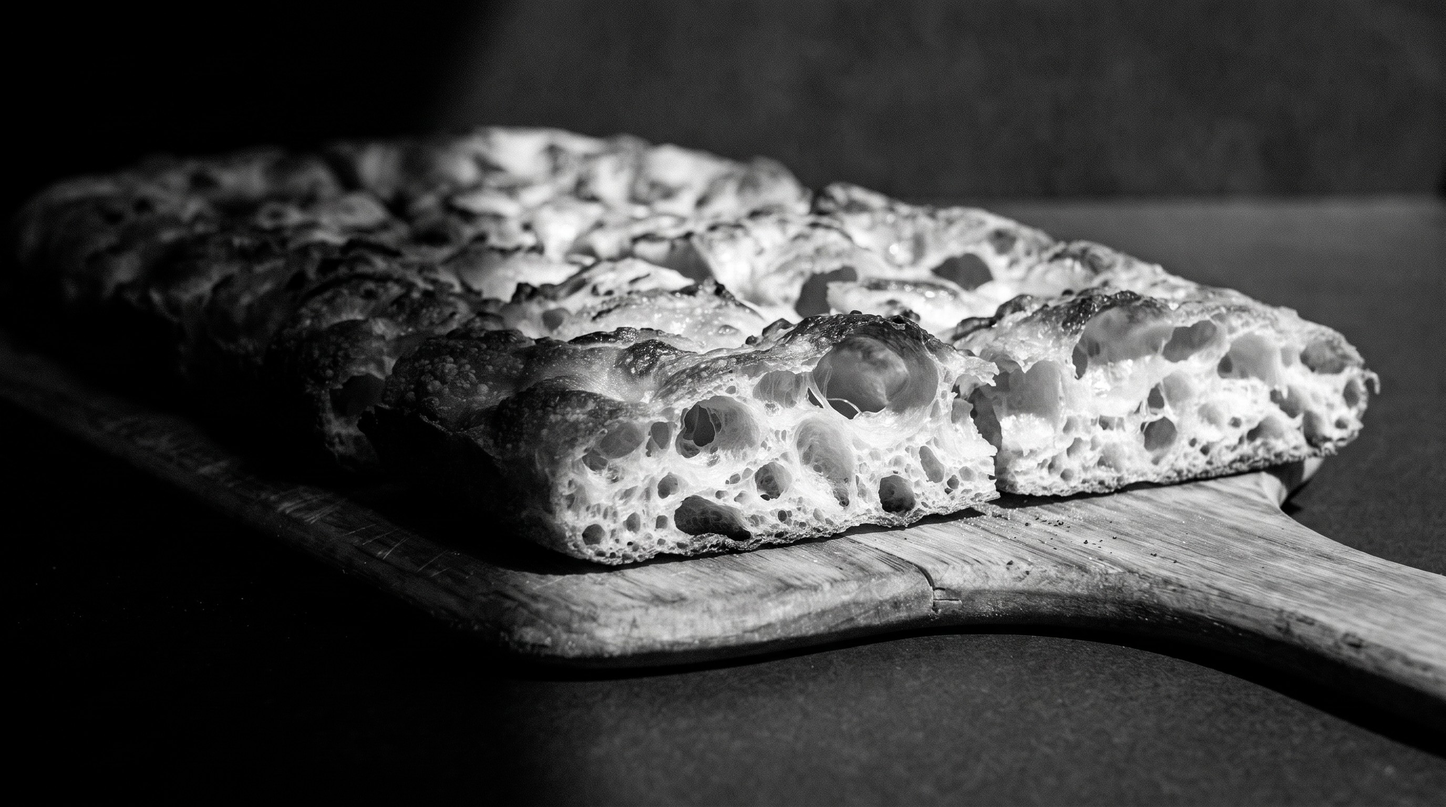
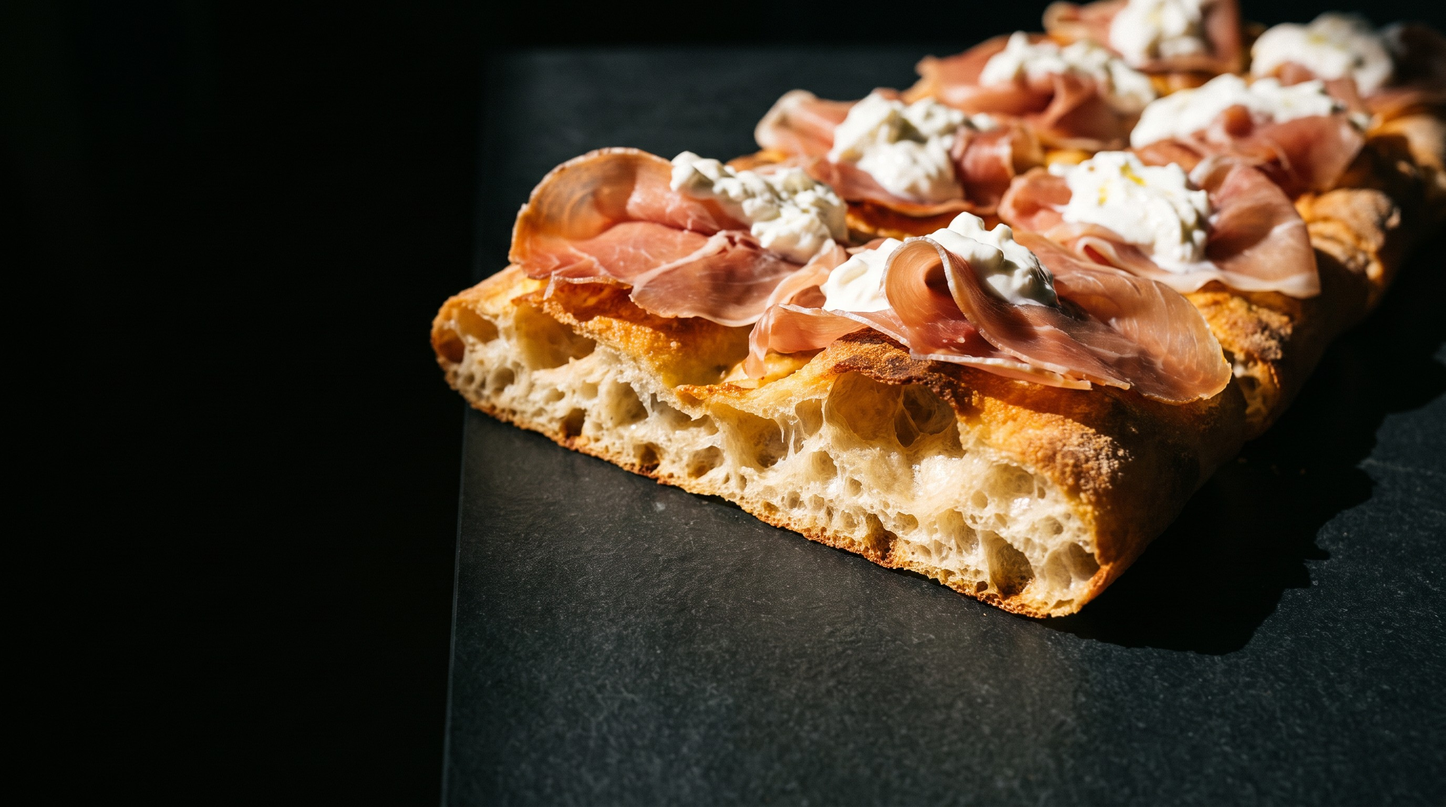
Merge the New York and tavern slides into one thin-crust slide
Two separate slides split a single idea across two frames. They are the
same dough family, so the hero now carries one "New York & Chicago"
slide: a folded wide slice next to a cracker-thin square-cut pizza.

Also replaces the alla pala photo with a warmer prosciutto version.

Claude-Session: https://claude.ai/code/session_01RW9kDjtoUERtrE4SdmvCMm

diff --git a/src/data/hero.ts b/src/data/hero.ts
@@ -15,8 +15,7 @@ import hero06 from '../assets/hero/hero-06.jpg';
 import hero07 from '../assets/hero/hero-07.jpg';
 import hero08 from '../assets/hero/hero-08.jpg';
 import hero09 from '../assets/hero/hero-09.jpg';
-import heroNy from '../assets/hero/hero-10-ny.jpg';
-import heroTavern from '../assets/hero/hero-11-tavern.jpg';
+import heroThin from '../assets/hero/hero-10-thin.jpg';
 
 export interface HeroSlide {
   image: ImageMetadata;
@@ -94,25 +93,16 @@ export const heroSlides: HeroSlide[] = [
     ],
   },
   {
-    image: heroNy,
-    alt: 'A thin New York slice folded lengthwise, cheese stretching, crisp underside showing.',
-    stage: 'New York',
-    title: 'New York',
-    body: 'Tomato and cheese, nothing else. Thin, foldable, crisp underneath.',
+    image: heroThin,
+    alt: 'A wide New York pizza with a folded slice beside a cracker-thin tavern pizza cut into squares.',
+    stage: 'New York & Chicago',
+    title: 'New York & Chicago',
+    body:
+      'Thin crust either way. Wide and foldable, or cracker-thin and cut into ' +
+      'squares with the toppings run out to the rim.',
     spec: [
-      { value: 'fold', label: 'test' },
-      { value: '18 in', label: 'round' },
-    ],
-  },
-  {
-    image: heroTavern,
-    alt: 'A cracker-thin tavern style pizza cut into small squares.',
-    stage: 'Tavern',
-    title: 'Tavern, party cut',
-    body: 'Cracker-thin and cut into squares. Toppings right out to the rim.',
-    spec: [
-      { value: 'square', label: 'cut' },
-      { value: 'no', label: 'cornicione' },
+      { value: 'fold', label: 'New York' },
+      { value: 'square', label: 'tavern' },
     ],
   },
   {
